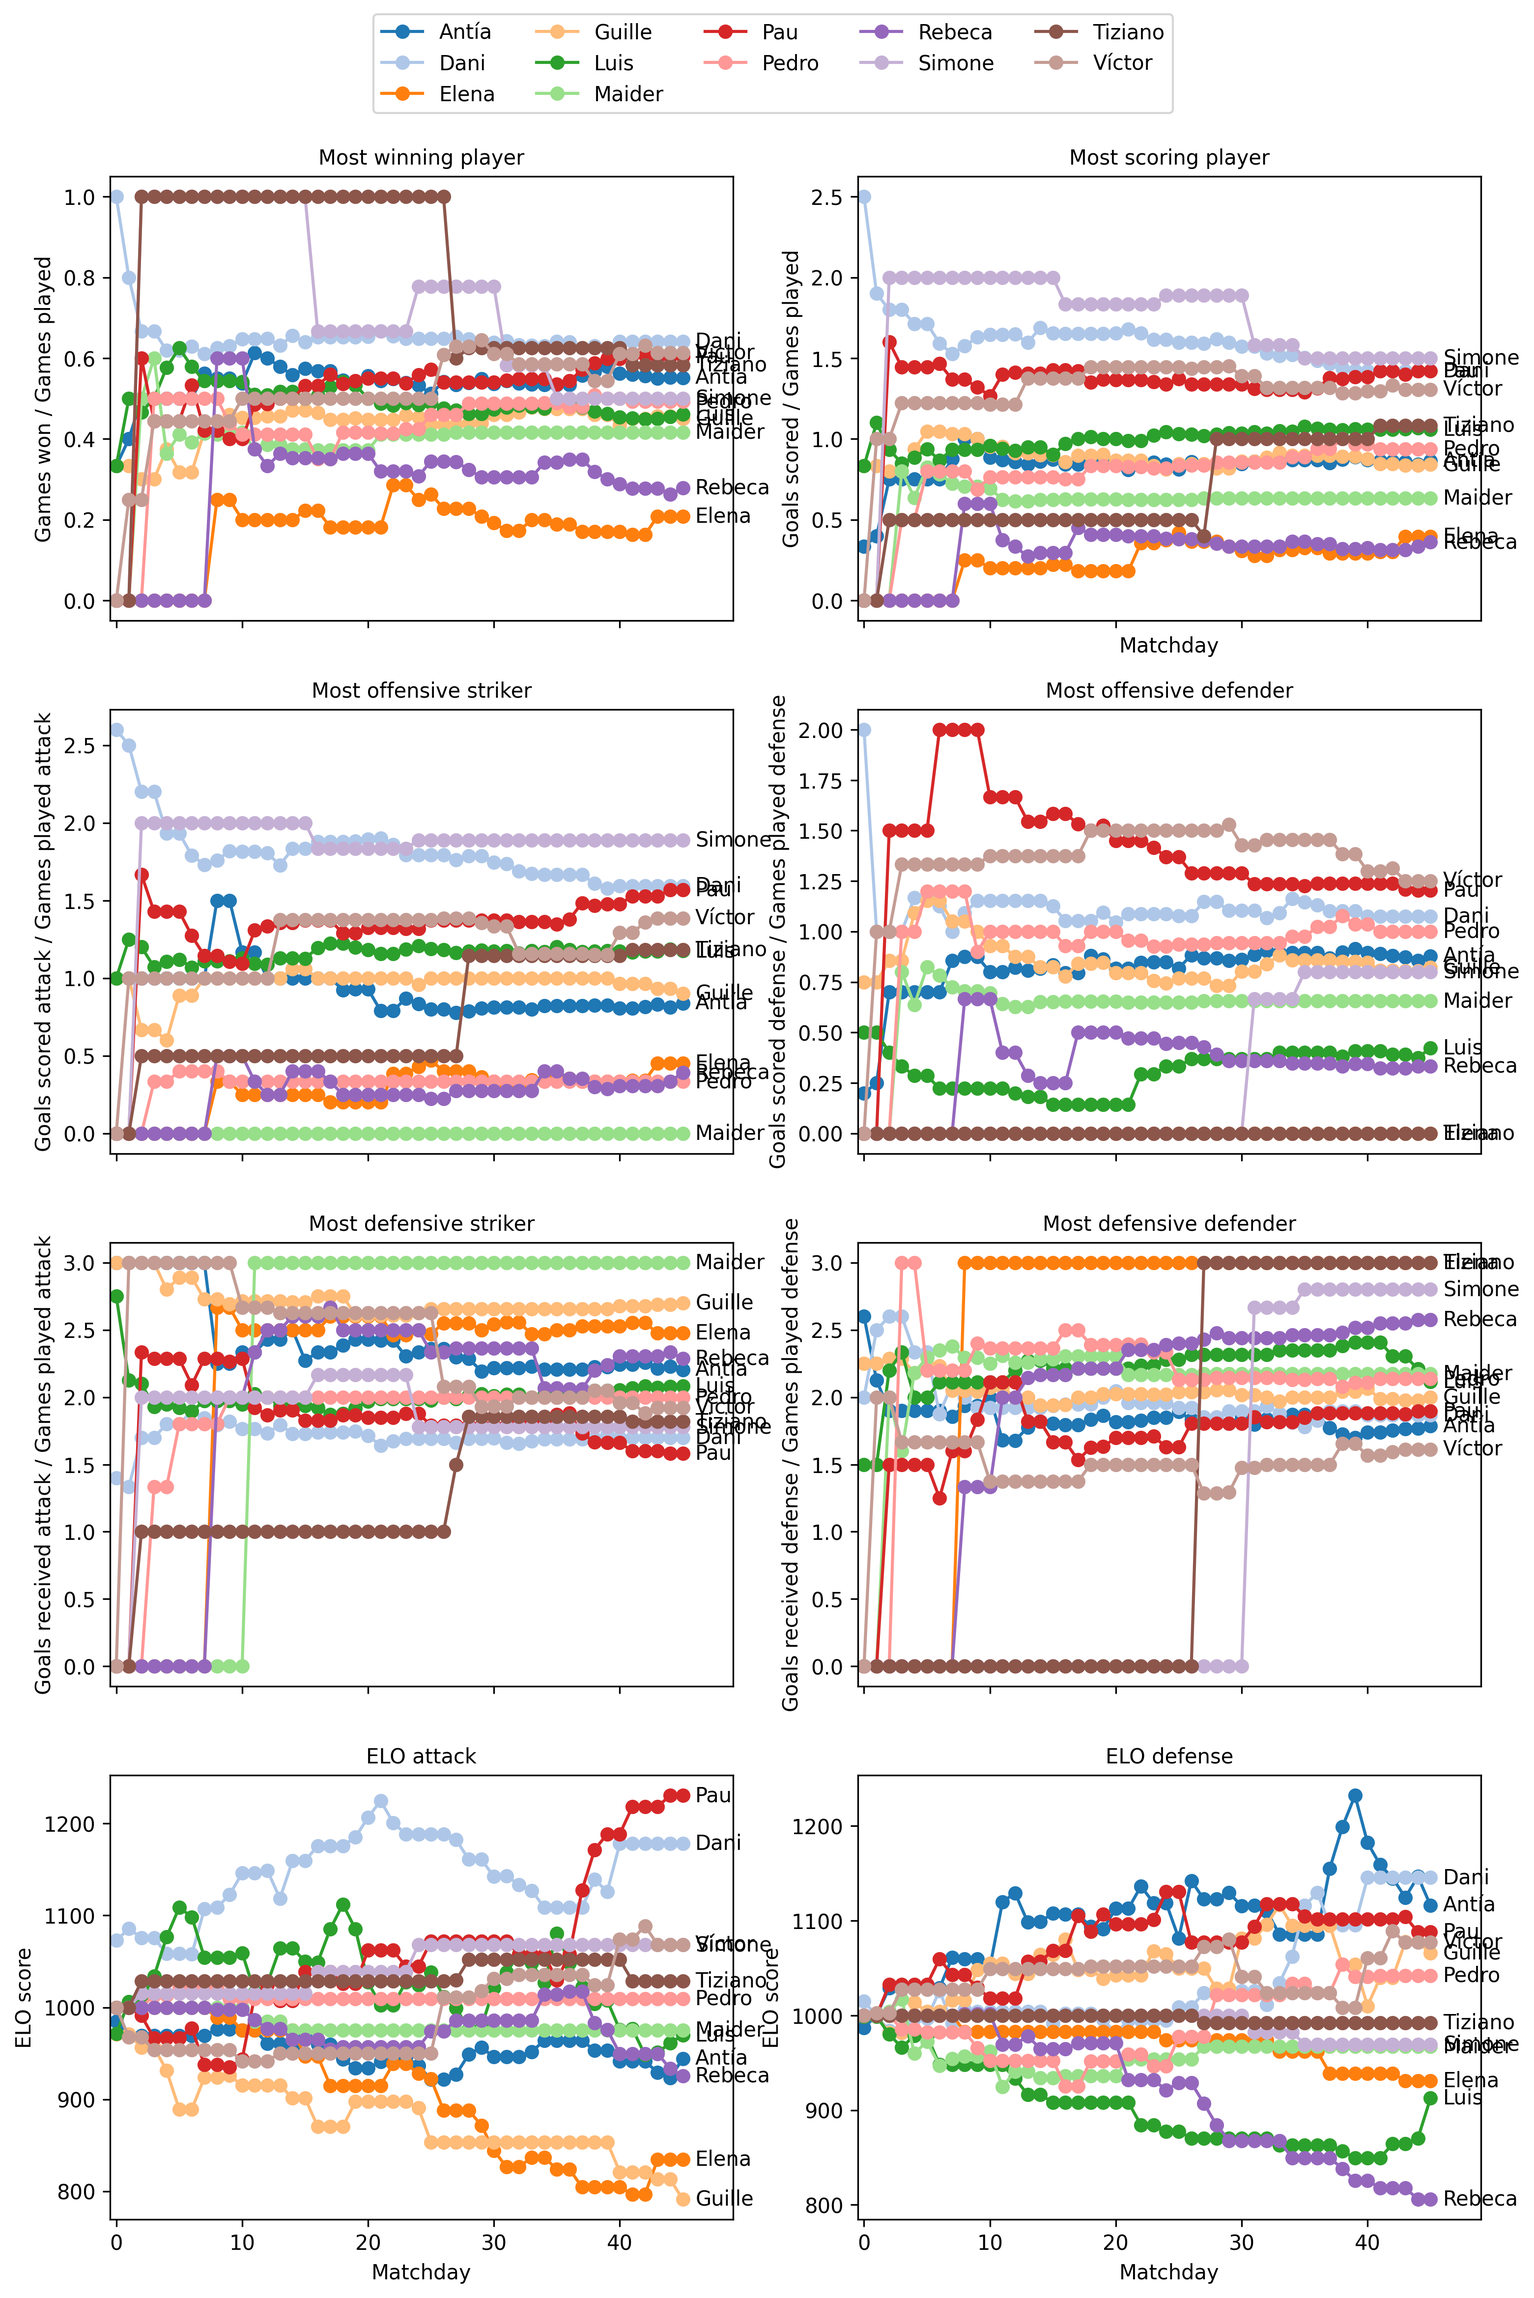
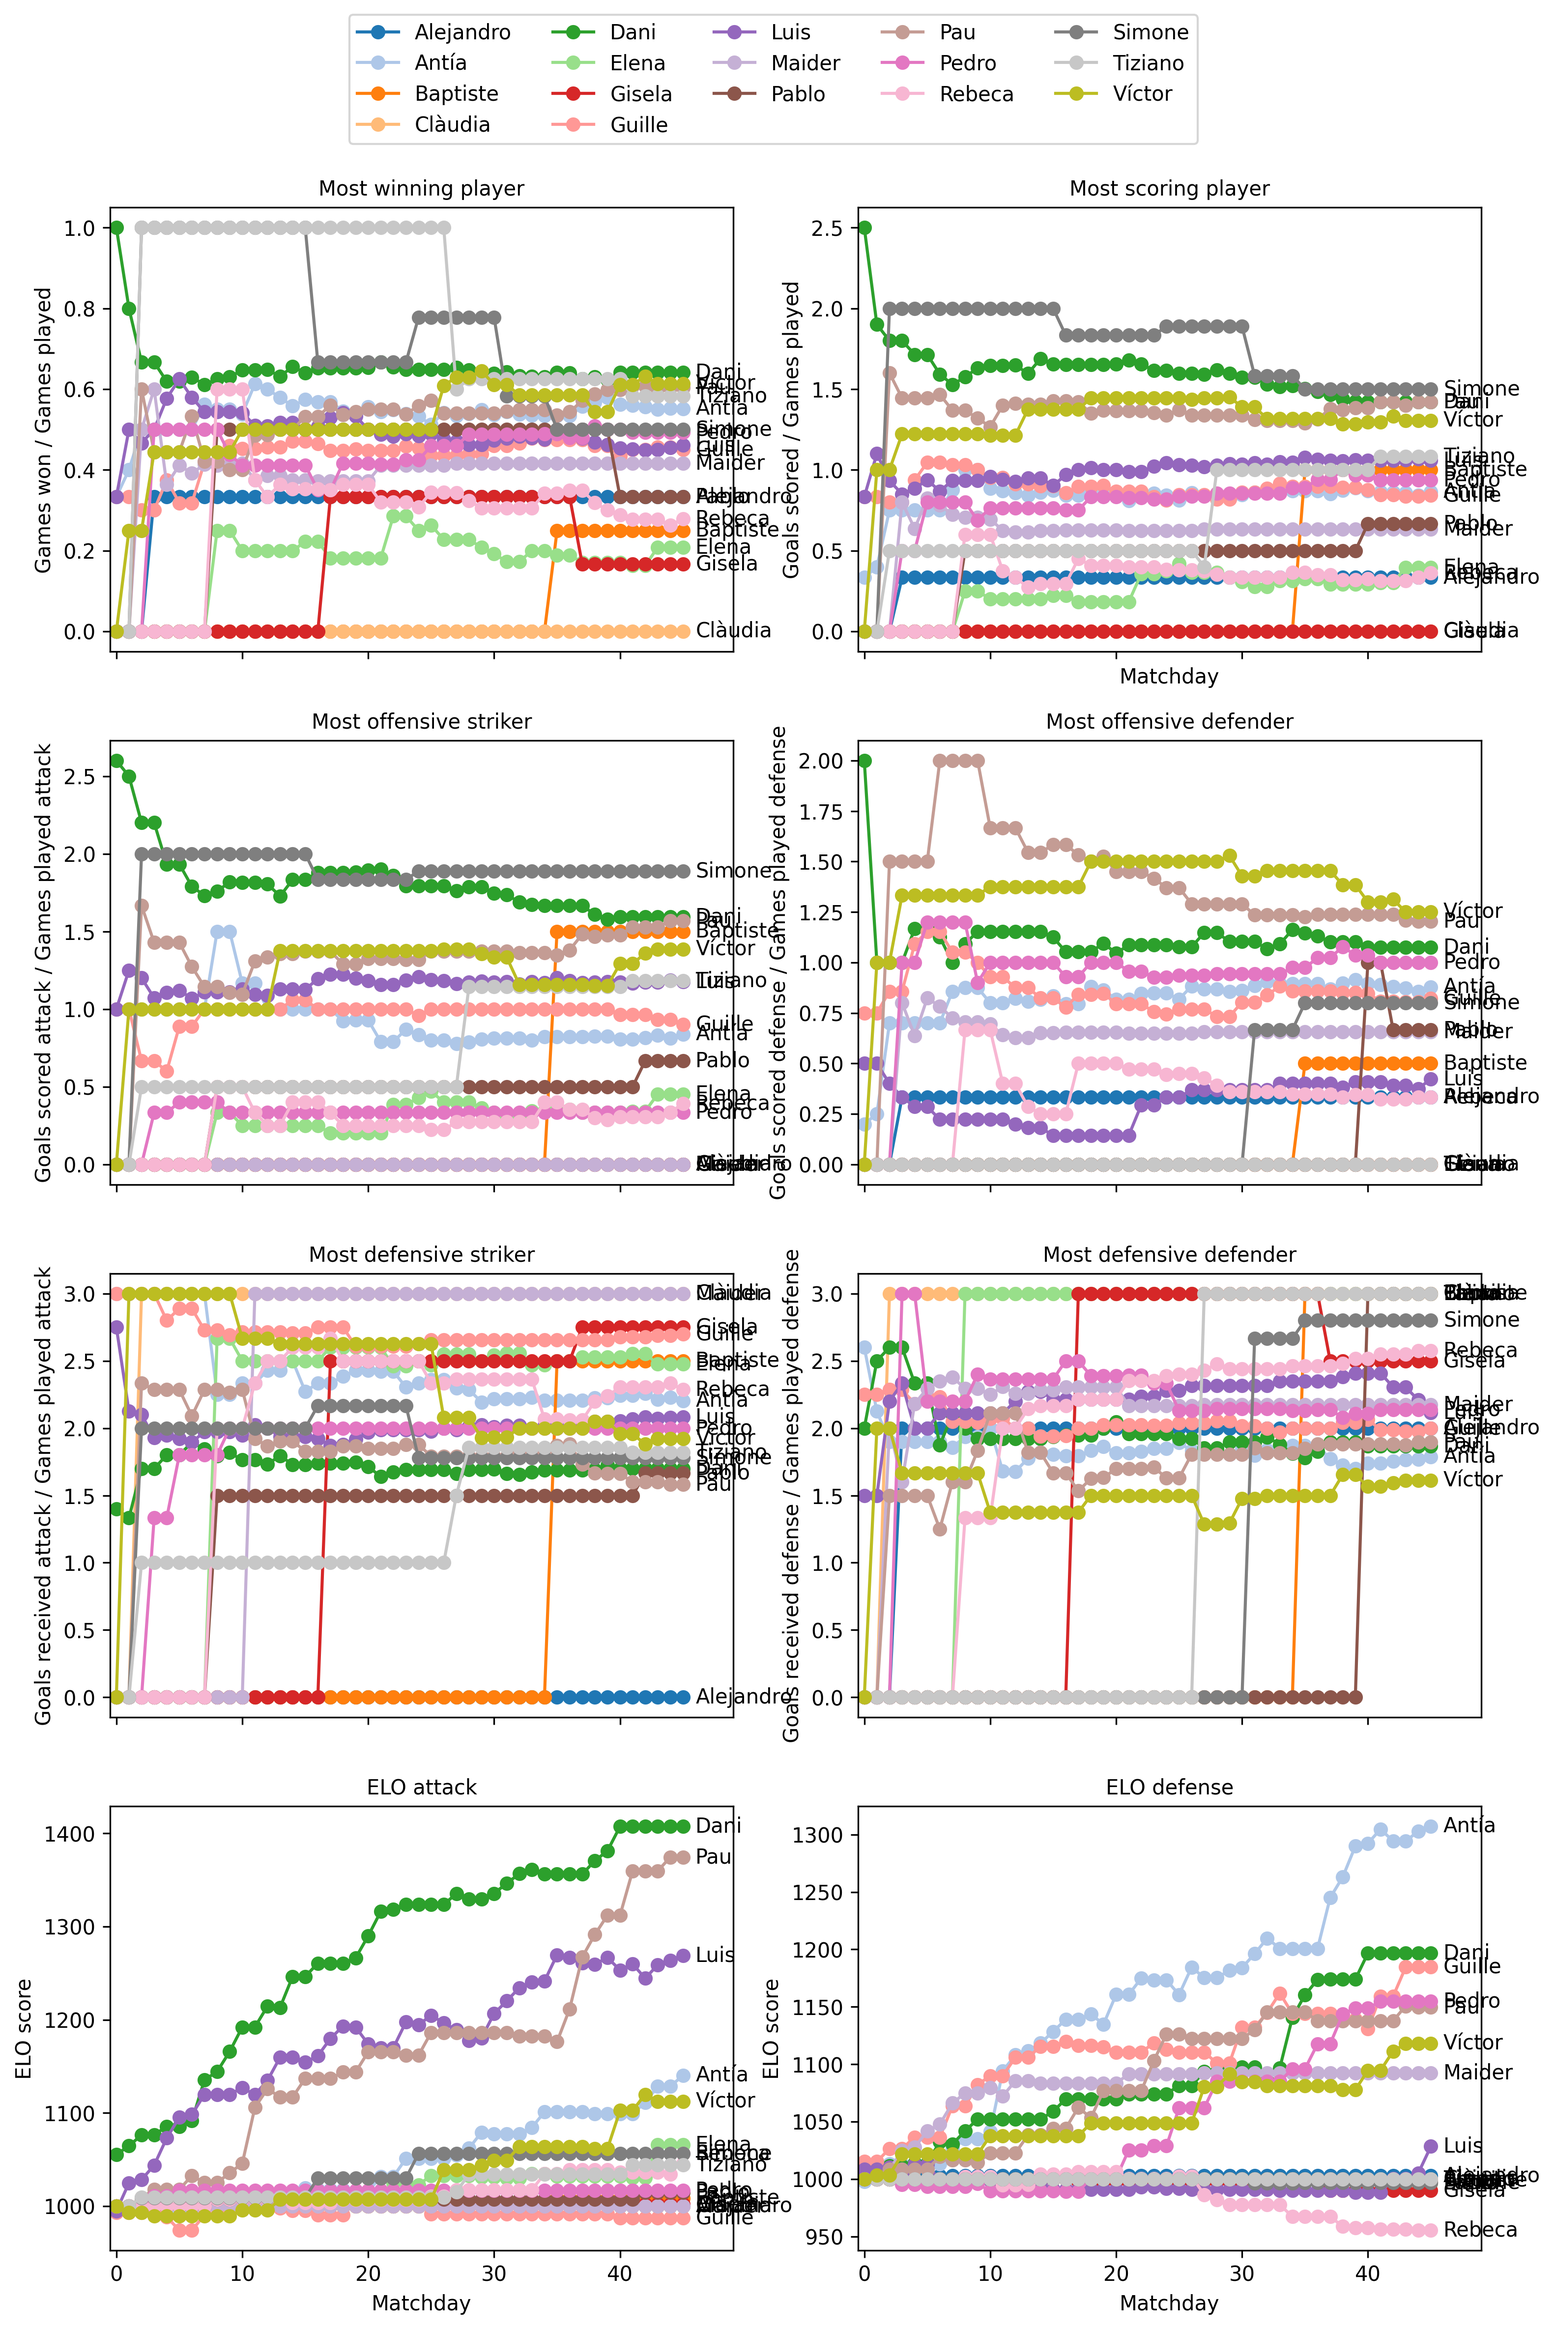
Corrected results from Season 2, accounting for performance

diff --git a/results/Season2/winplayed_stats.html b/results/Season2/winplayed_stats.html
@@ -1,74 +1,99 @@
 <style type="text/css">
 </style>
-<table id="T_7d176">
+<table id="T_05d51">
   <caption>Games won / Games played (Matchday 45)</caption>
   <thead>
     <tr>
       <th class="blank level0" >&nbsp;</th>
-      <th id="T_7d176_level0_col0" class="col_heading level0 col0" >0</th>
-      <th id="T_7d176_level0_col1" class="col_heading level0 col1" >1</th>
+      <th id="T_05d51_level0_col0" class="col_heading level0 col0" >0</th>
+      <th id="T_05d51_level0_col1" class="col_heading level0 col1" >1</th>
     </tr>
   </thead>
   <tbody>
     <tr>
-      <th id="T_7d176_level0_row0" class="row_heading level0 row0" >1</th>
-      <td id="T_7d176_row0_col0" class="data row0 col0" >Dani</td>
-      <td id="T_7d176_row0_col1" class="data row0 col1" >0.64</td>
+      <th id="T_05d51_level0_row0" class="row_heading level0 row0" >1</th>
+      <td id="T_05d51_row0_col0" class="data row0 col0" >Dani</td>
+      <td id="T_05d51_row0_col1" class="data row0 col1" >0.64</td>
     </tr>
     <tr>
-      <th id="T_7d176_level0_row1" class="row_heading level0 row1" >2</th>
-      <td id="T_7d176_row1_col0" class="data row1 col0" >Víctor</td>
-      <td id="T_7d176_row1_col1" class="data row1 col1" >0.61</td>
+      <th id="T_05d51_level0_row1" class="row_heading level0 row1" >2</th>
+      <td id="T_05d51_row1_col0" class="data row1 col0" >Víctor</td>
+      <td id="T_05d51_row1_col1" class="data row1 col1" >0.61</td>
     </tr>
     <tr>
-      <th id="T_7d176_level0_row2" class="row_heading level0 row2" >3</th>
-      <td id="T_7d176_row2_col0" class="data row2 col0" >Pau</td>
-      <td id="T_7d176_row2_col1" class="data row2 col1" >0.6</td>
+      <th id="T_05d51_level0_row2" class="row_heading level0 row2" >3</th>
+      <td id="T_05d51_row2_col0" class="data row2 col0" >Pau</td>
+      <td id="T_05d51_row2_col1" class="data row2 col1" >0.6</td>
     </tr>
     <tr>
-      <th id="T_7d176_level0_row3" class="row_heading level0 row3" >4</th>
-      <td id="T_7d176_row3_col0" class="data row3 col0" >Tiziano</td>
-      <td id="T_7d176_row3_col1" class="data row3 col1" >0.58</td>
+      <th id="T_05d51_level0_row3" class="row_heading level0 row3" >4</th>
+      <td id="T_05d51_row3_col0" class="data row3 col0" >Tiziano</td>
+      <td id="T_05d51_row3_col1" class="data row3 col1" >0.58</td>
     </tr>
     <tr>
-      <th id="T_7d176_level0_row4" class="row_heading level0 row4" >5</th>
-      <td id="T_7d176_row4_col0" class="data row4 col0" >Antía</td>
-      <td id="T_7d176_row4_col1" class="data row4 col1" >0.55</td>
+      <th id="T_05d51_level0_row4" class="row_heading level0 row4" >5</th>
+      <td id="T_05d51_row4_col0" class="data row4 col0" >Antía</td>
+      <td id="T_05d51_row4_col1" class="data row4 col1" >0.55</td>
     </tr>
     <tr>
-      <th id="T_7d176_level0_row5" class="row_heading level0 row5" >6</th>
-      <td id="T_7d176_row5_col0" class="data row5 col0" >Simone</td>
-      <td id="T_7d176_row5_col1" class="data row5 col1" >0.5</td>
+      <th id="T_05d51_level0_row5" class="row_heading level0 row5" >6</th>
+      <td id="T_05d51_row5_col0" class="data row5 col0" >Simone</td>
+      <td id="T_05d51_row5_col1" class="data row5 col1" >0.5</td>
     </tr>
     <tr>
-      <th id="T_7d176_level0_row6" class="row_heading level0 row6" >7</th>
-      <td id="T_7d176_row6_col0" class="data row6 col0" >Pedro</td>
-      <td id="T_7d176_row6_col1" class="data row6 col1" >0.49</td>
+      <th id="T_05d51_level0_row6" class="row_heading level0 row6" >7</th>
+      <td id="T_05d51_row6_col0" class="data row6 col0" >Pedro</td>
+      <td id="T_05d51_row6_col1" class="data row6 col1" >0.49</td>
     </tr>
     <tr>
-      <th id="T_7d176_level0_row7" class="row_heading level0 row7" >8</th>
-      <td id="T_7d176_row7_col0" class="data row7 col0" >Luis</td>
-      <td id="T_7d176_row7_col1" class="data row7 col1" >0.46</td>
+      <th id="T_05d51_level0_row7" class="row_heading level0 row7" >8</th>
+      <td id="T_05d51_row7_col0" class="data row7 col0" >Luis</td>
+      <td id="T_05d51_row7_col1" class="data row7 col1" >0.46</td>
     </tr>
     <tr>
-      <th id="T_7d176_level0_row8" class="row_heading level0 row8" >9</th>
-      <td id="T_7d176_row8_col0" class="data row8 col0" >Guille</td>
-      <td id="T_7d176_row8_col1" class="data row8 col1" >0.45</td>
+      <th id="T_05d51_level0_row8" class="row_heading level0 row8" >9</th>
+      <td id="T_05d51_row8_col0" class="data row8 col0" >Guille</td>
+      <td id="T_05d51_row8_col1" class="data row8 col1" >0.45</td>
     </tr>
     <tr>
-      <th id="T_7d176_level0_row9" class="row_heading level0 row9" >10</th>
-      <td id="T_7d176_row9_col0" class="data row9 col0" >Maider</td>
-      <td id="T_7d176_row9_col1" class="data row9 col1" >0.42</td>
+      <th id="T_05d51_level0_row9" class="row_heading level0 row9" >10</th>
+      <td id="T_05d51_row9_col0" class="data row9 col0" >Maider</td>
+      <td id="T_05d51_row9_col1" class="data row9 col1" >0.42</td>
     </tr>
     <tr>
-      <th id="T_7d176_level0_row10" class="row_heading level0 row10" >11</th>
-      <td id="T_7d176_row10_col0" class="data row10 col0" >Rebeca</td>
-      <td id="T_7d176_row10_col1" class="data row10 col1" >0.28</td>
+      <th id="T_05d51_level0_row10" class="row_heading level0 row10" >11</th>
+      <td id="T_05d51_row10_col0" class="data row10 col0" >Pablo</td>
+      <td id="T_05d51_row10_col1" class="data row10 col1" >0.33</td>
     </tr>
     <tr>
-      <th id="T_7d176_level0_row11" class="row_heading level0 row11" >12</th>
-      <td id="T_7d176_row11_col0" class="data row11 col0" >Elena</td>
-      <td id="T_7d176_row11_col1" class="data row11 col1" >0.21</td>
+      <th id="T_05d51_level0_row11" class="row_heading level0 row11" >12</th>
+      <td id="T_05d51_row11_col0" class="data row11 col0" >Alejandro</td>
+      <td id="T_05d51_row11_col1" class="data row11 col1" >0.33</td>
+    </tr>
+    <tr>
+      <th id="T_05d51_level0_row12" class="row_heading level0 row12" >13</th>
+      <td id="T_05d51_row12_col0" class="data row12 col0" >Rebeca</td>
+      <td id="T_05d51_row12_col1" class="data row12 col1" >0.28</td>
+    </tr>
+    <tr>
+      <th id="T_05d51_level0_row13" class="row_heading level0 row13" >14</th>
+      <td id="T_05d51_row13_col0" class="data row13 col0" >Baptiste</td>
+      <td id="T_05d51_row13_col1" class="data row13 col1" >0.25</td>
+    </tr>
+    <tr>
+      <th id="T_05d51_level0_row14" class="row_heading level0 row14" >15</th>
+      <td id="T_05d51_row14_col0" class="data row14 col0" >Elena</td>
+      <td id="T_05d51_row14_col1" class="data row14 col1" >0.21</td>
+    </tr>
+    <tr>
+      <th id="T_05d51_level0_row15" class="row_heading level0 row15" >16</th>
+      <td id="T_05d51_row15_col0" class="data row15 col0" >Gisela</td>
+      <td id="T_05d51_row15_col1" class="data row15 col1" >0.17</td>
+    </tr>
+    <tr>
+      <th id="T_05d51_level0_row16" class="row_heading level0 row16" >17</th>
+      <td id="T_05d51_row16_col0" class="data row16 col0" >Clàudia</td>
+      <td id="T_05d51_row16_col1" class="data row16 col1" >0.0</td>
     </tr>
   </tbody>
 </table>
